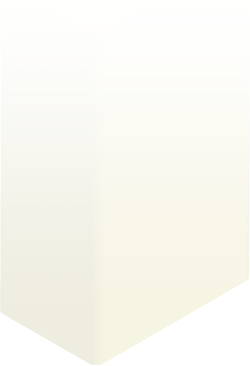
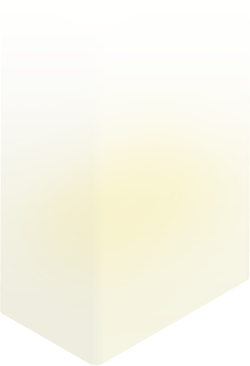
ff-preview hover state

Changed region(s): [[0.308, 0.4508, 0.756, 0.6612]]

diff --git a/media/css/home.css b/media/css/home.css
@@ -19,13 +19,27 @@
 }
     
 #phone {
-    height:278px; 
-    width:305px; 
-    background:url('../img/phone.png');
-    position:relative;
-    z-index:10;
-    top:0;
-    left:0;
+    background: url("../img/phone.png") no-repeat scroll 0 0 transparent;
+    height: 194px;
+    left: 0;
+    position: relative;
+    top: 85px;
+    width: 305px;
+    z-index: 10;
+}
+
+#ff-preview {
+    width:231px;
+    height:134px;
+    position:absolute;
+    background:url('../img/ff-preview.png') no-repeat 0 0;
+    top:18px;
+    left:41px;
+    opacity:0;
+}
+
+.ff-preview #ff-preview {
+    opacity:1;
 }
 
 #spark {
@@ -203,6 +217,7 @@ h1 .third-line {
     left:32px;
     top:-125px;
     z-index:500;
+    opacity:1;
 }
 
 #particles {

diff --git a/media/css/transitions.css b/media/css/transitions.css
@@ -109,4 +109,6 @@ header nav .left, header nav .right {
 }
 
 #small-phones {-moz-transition:0.5s opacity linear 0s;-webkit-transition:0.5s opacity linear 0s;-o-transition:0.5s opacity linear 0s;}
-#light-ray {-moz-transition:0.25s opacity linear 0.4s;-webkit-transition:0.25s opacity linear 0.4s;-o-transition:0.25s opacity linear 0.4s;}
+#light-ray {-moz-transition:0.25s opacity linear 0s;-webkit-transition:0.25s opacity linear 0s;-o-transition:0.25s opacity linear 0s;}
+
+#ff-preview {-moz-transition:0.5s opacity linear;-webkit-transition:0.5s opacity linear;-o-transition:0.5s opacity linear;}

diff --git a/media/js/desktop/main.js b/media/js/desktop/main.js
@@ -140,4 +140,21 @@ $(document).ready(function() {
     });
     
     initNewsletterForm();
+    
+    // Home buttons
+    $('#firefox-button').hover(
+        function() {
+            $('#phone-wrapper').toggleClass('ff-preview');
+        }, function() {
+            $('#phone-wrapper').toggleClass('ff-preview');
+        }
+    );
+    
+    $('#spark-button').hover(
+        function() {
+            $('#phone-wrapper').toggleClass('spark-preview');
+        }, function() {
+            $('#phone-wrapper').toggleClass('spark-preview');
+        }
+    );
 });

diff --git a/apps/eol/templates/eol/desktop/home.html b/apps/eol/templates/eol/desktop/home.html
@@ -42,7 +42,9 @@
                 <canvas id="particles" height="380" width="350"></canvas>
                 <div id="light-ray"></div>
                 <canvas id="spark"></canvas>
-                <div id="phone"></div>
+                <div id="phone">
+                    <div id="ff-preview"></div>
+                </div>
             </div>
         </div>
     </div>

diff --git a/apps/eol/templates/eol/desktop/firefox/layers.html b/apps/eol/templates/eol/desktop/firefox/layers.html
@@ -6,6 +6,10 @@
         <li class="layer" id="phone-layer-4"></li>
     </ol>
 </nav>
+<div id="open-phone">
+    <div id="phone-up"></div>
+    <div id="phone-bottom"></div>
+</div>
 <div id="separator">
     <div class="line"></div>
     <div class="arrow layer-1"></div>

diff --git a/media/css/states.css b/media/css/states.css
@@ -158,3 +158,11 @@ header nav div.right {
 
 .home #small-phones {opacity:1;}
 #small-phones {opacity:0;}
+
+.ff-preview #light-ray, .ff-preview #spark {
+    opacity:0;
+}
+
+.ff-preview #ff-preview {
+    opacity:1;
+}
